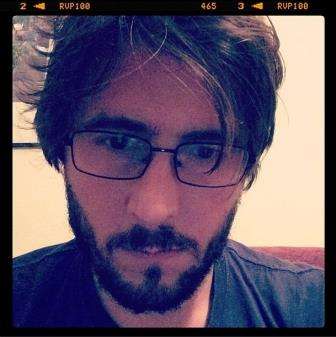
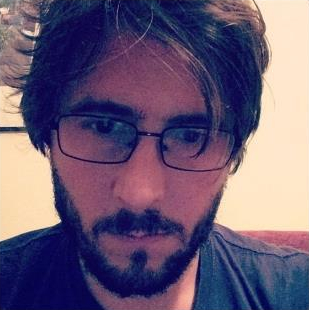
Fix Marcos pic and errata

diff --git a/index.html b/index.html
@@ -56,7 +56,7 @@
                         <a class="page-scroll" href="#premios">Awards</a>
                     </li>
                     <li>
-                        <a class="page-scroll" href="#colaboraciones">Colaborations</a>
+                        <a class="page-scroll" href="#colaboraciones">Collaborations</a>
                     </li>
                     <li>
                         <a class="page-scroll" href="#miembros">Members</a>
@@ -158,7 +158,7 @@
     <section id="colaboraciones" class="content-section text-center">
         <div class="colaboraciones-section">
             <div class="container">
-				<h2>Colaborations</h2>
+				<h2>Collaborations</h2>
 				<div class="row" style="margin-bottom:40px">
 					<div class="col-xs-6 col-sm-4 col-md-4 col-lg-4">
 						<img class="img-circle" src="img/ProgramamosLogo.png" alt="Generic placeholder image" style="height: 140px;">
